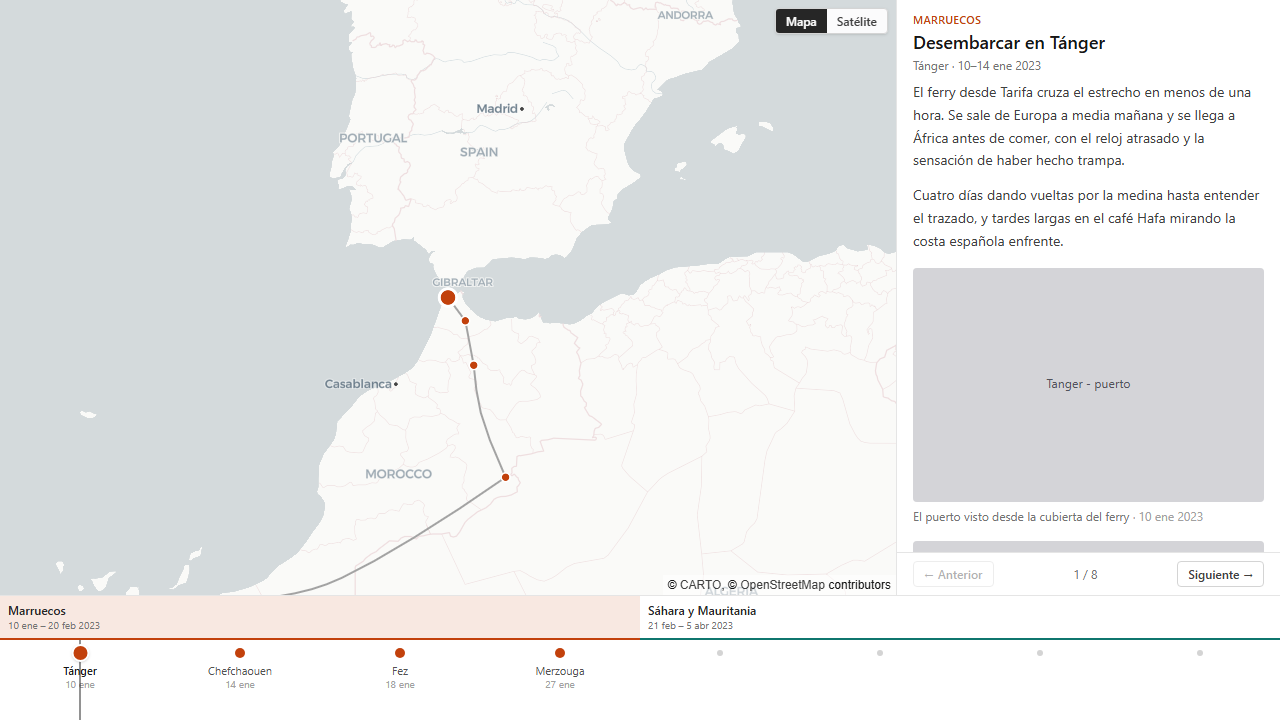
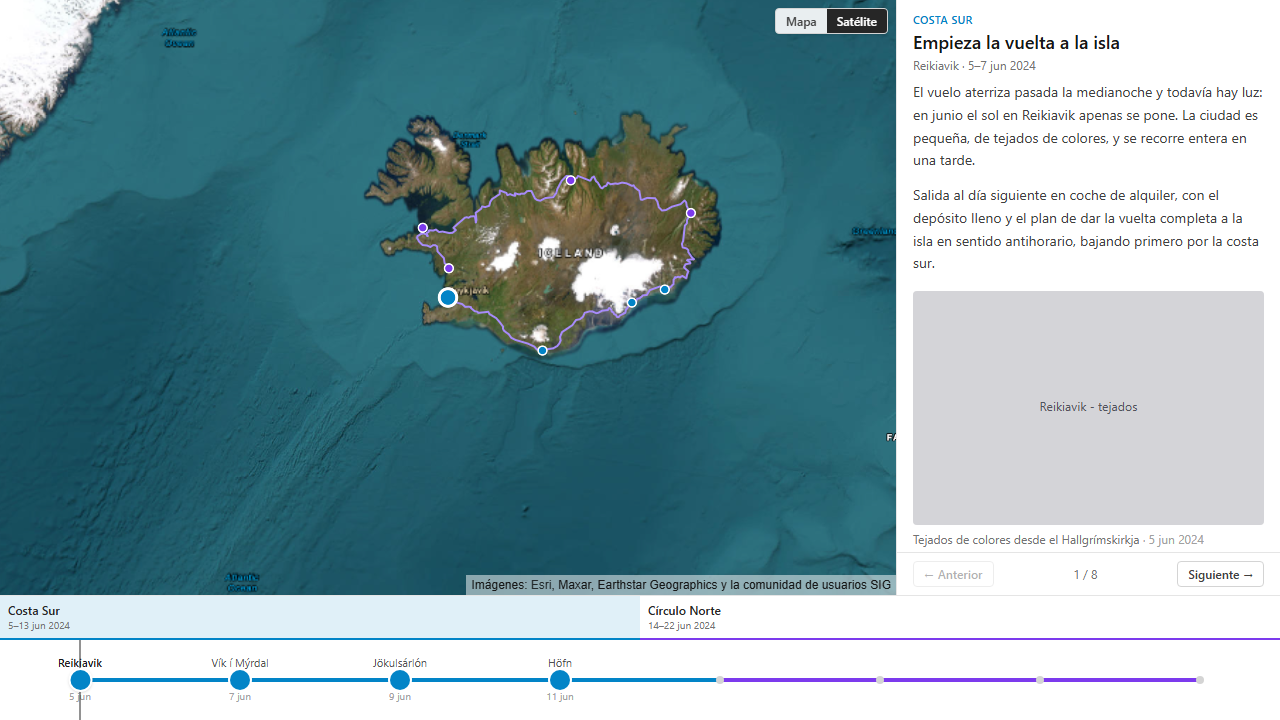
docs: enfoca el README a viajes en general y actualiza la captura
- La descripción ya no habla de un viaje concreto por África: el proyecto
  sirve para cualquier viaje que se pueda contar como una secuencia de
  paradas.
- Nueva captura, generada con la suite de Playwright, que muestra la ruta
  siguiendo la carretera real tras el cambio de cálculo de geometría. El
  texto alternativo seguía describiendo la ruta por Marruecos.

diff --git a/README.md b/README.md
@@ -1,13 +1,14 @@
 # TripMap
 
-Sitio estático que narra un viaje de varios años por África: un mapa
-interactivo con la ruta y las paradas, y una línea de tiempo sincronizada con
-él. Todo el contenido vive en el repositorio y se resuelve en tiempo de build;
-no hay backend, ni base de datos, ni usuarios.
+Sitio estático para visualizar viajes: un mapa interactivo con la ruta y las
+paradas, y una línea de tiempo sincronizada con él. Sirve para cualquier viaje
+que se pueda contar como una secuencia de paradas, desde una vuelta a un país
+hasta un recorrido de varios años. Todo el contenido vive en el repositorio y
+se resuelve en tiempo de build; no hay backend, ni base de datos, ni usuarios.
 
 🌍 **https://unaibermudez.github.io/TripMap/**
 
-![El mapa con la ruta por Marruecos, el panel de la parada y la línea de tiempo](docs/captura.png)
+![El mapa sobre satélite con la ruta siguiendo la carretera de circunvalación de Islandia, el panel de la parada y la línea de tiempo](docs/captura.png)
 
 ## Qué hace
 
